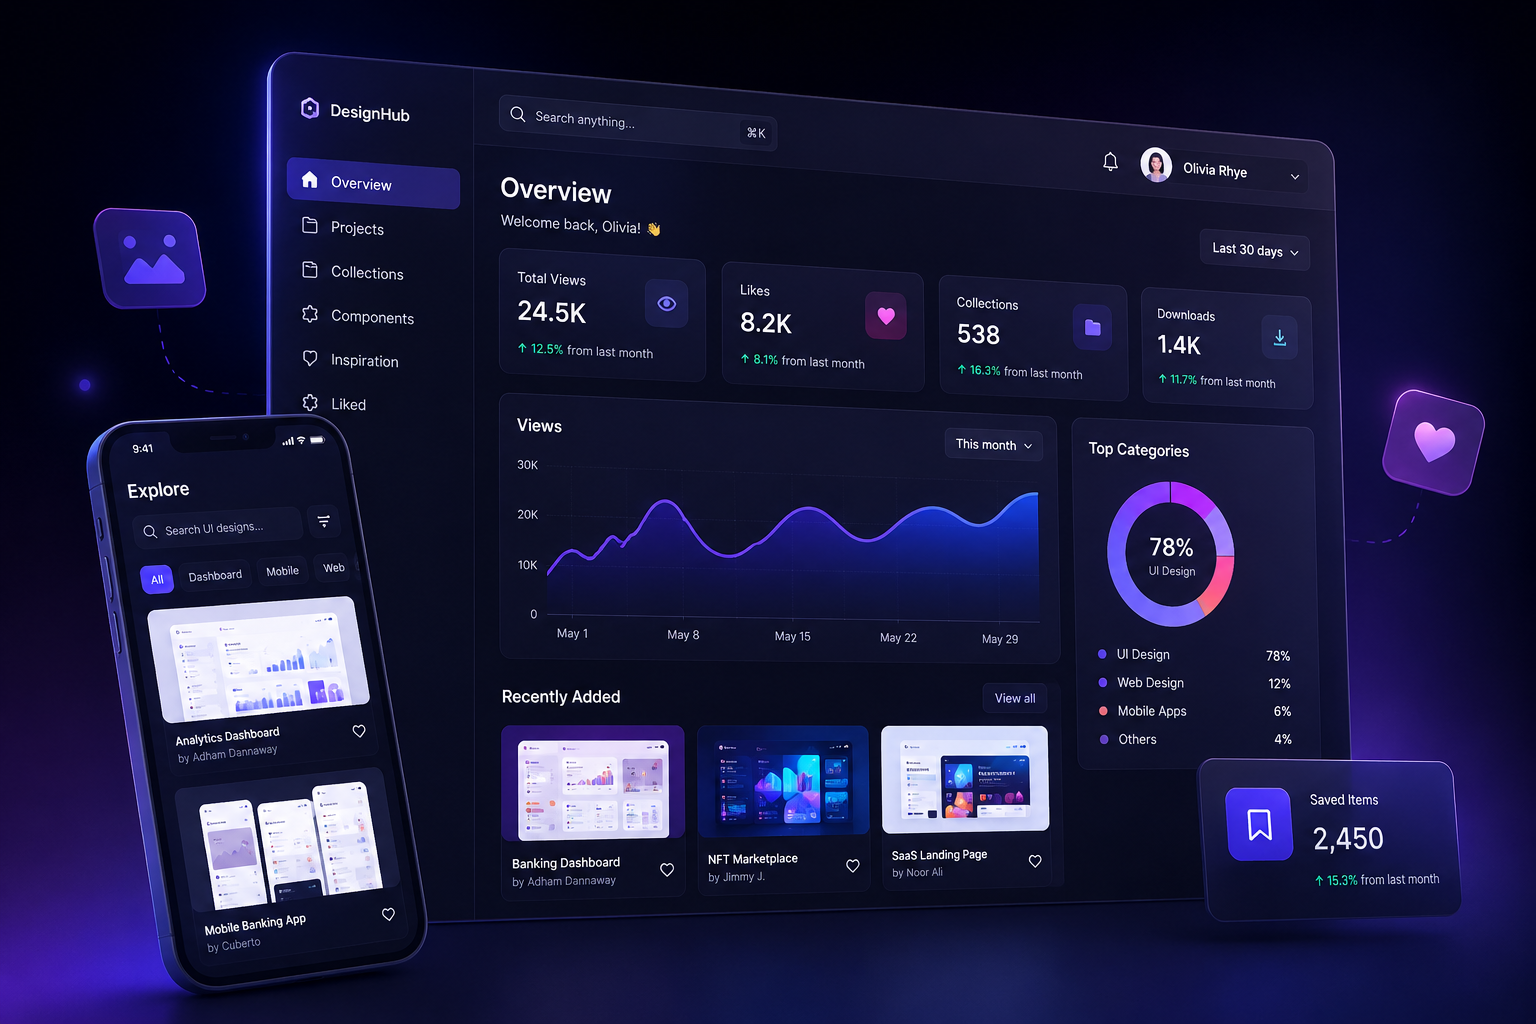
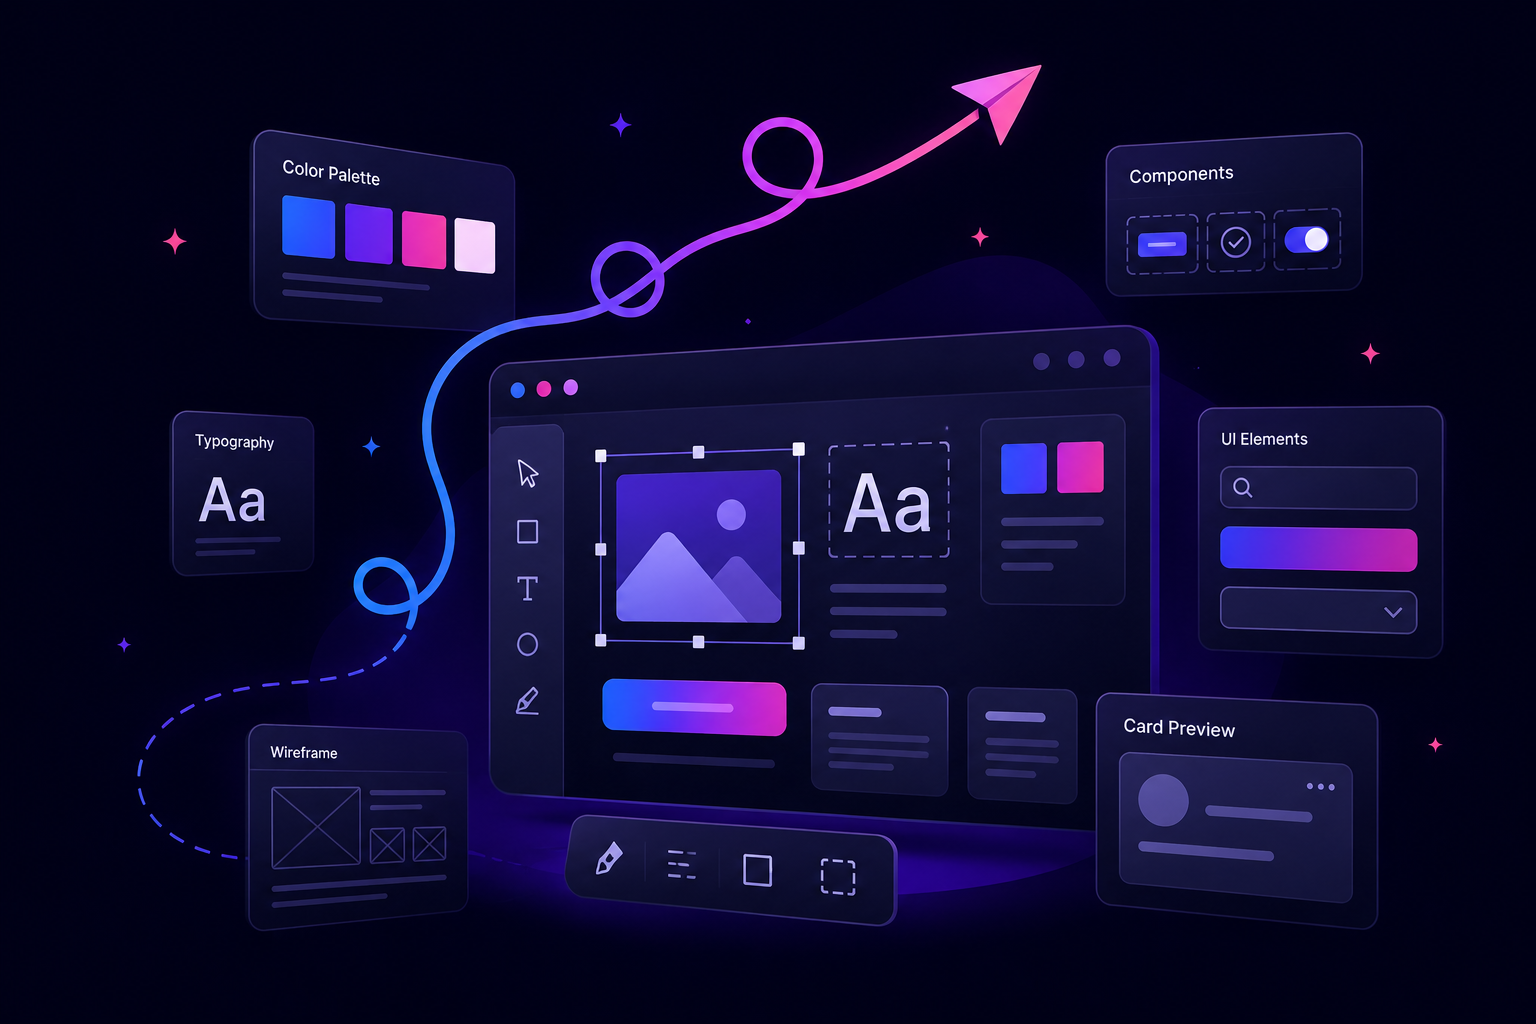
feat: add UI category cards

diff --git a/index.html b/index.html
@@ -1,5 +1,5 @@
 <!doctype html>
-<html lang="en">
+<html class="scroll-smooth">
 
 <head>
   <meta charset="UTF-8" />
@@ -7,9 +7,10 @@
   <title>DesignHub</title>
   <link rel="shortcut icon" href="src/assets/logo.svg" type="image/x-icon" />
   <link rel="stylesheet" href="src/output.css" />
+  <link rel="stylesheet" href="https://cdnjs.cloudflare.com/ajax/libs/font-awesome/6.5.0/css/all.min.css" />
 </head>
 
-<body class="min-h-screen bg-[#050816] text-slate-100 antialiased relative overflow-x-hidden">
+<body class="min-h-screen bg-[#050816] text-slate-100 antialiased relative overflow-x-hidden scroll-smooth">
 
   <!-- Background Effects -->
   <div class="absolute inset-0 -z-10 overflow-hidden pointer-events-none">
@@ -38,7 +39,7 @@
     <div class="absolute top-0 left-1/2 -translate-x-1/2
       w-[70vw] max-w-[600px]
       h-[2px]
-      bg-gradient-to-r
+      bg-linear-to-r
       from-transparent
       via-purple-400/40
       to-transparent">
@@ -47,15 +48,14 @@
   </div>
 
   <!-- Header -->
-  <header class="sticky top-0 z-50 bg-white/[0.03] backdrop-blur-2xl border-b border-white/10 rounded-2xl">
+  <header class="sticky top-0 z-50 bg-white/[0.03] backdrop-blur-2xl border-b border-white/10 rounded-b-2xl">
 
     <div class="mx-auto max-w-7xl px-4 py-4 flex items-center justify-between">
 
       <!-- Logo -->
-      <div class="flex items-center gap-3">
-        <img src="src/assets/logo.svg" alt="DesignHub Logo" class="w-9 h-9 md:w-10 md:h-10">
-
-        <span class="text-white text-xl md:text-3xl font-semibold tracking-wide">
+      <div class="flex items-center gap-3 ">
+        <img src="src/assets/logo.svg" alt="DesignHub Logo" class="w-8 h-8 md:w-10 md:h-10">
+        <span class="text-white text-2  xl md:text-3xl font-bold tracking-wide">
           Design<span class="text-pink-500">Hub</span>
         </span>
       </div>
@@ -65,77 +65,66 @@
         <nav class="hidden md:flex items-center gap-10 text-sm font-medium">
           <a href="#" class="relative text-white/70 hover:text-white transition-all duration-300 group">
             <span class="text-[20px] font-semibold tracking-wide">Home</span>
-
-            <!-- underline animation -->
-            <span class="absolute left-0 -bottom-1 w-0 h-[2px] bg-pink-500 
-                 group-hover:w-full transition-all duration-300"></span>
+            <span
+              class="absolute left-0 -bottom-1 w-0 h-[2px] bg-pink-500 group-hover:w-full transition-all duration-300"></span>
           </a>
 
           <a href="#" class="relative text-white/70 hover:text-white transition-all duration-300 group">
             <span class="text-[20px] font-semibold tracking-wide">About</span>
-
-            <span class="absolute left-0 -bottom-1 w-0 h-[2px] bg-purple-500 
-                 group-hover:w-full transition-all duration-300"></span>
-          </a>
-
-          <a href="#" class="relative text-white/70 hover:text-white transition-all duration-300 group">
-            <span class="text-[20px] font-semibold tracking-wide">Contact</span>
-
-            <span class="absolute left-0 -bottom-1 w-0 h-[2px] bg-indigo-500 
-                 group-hover:w-full transition-all duration-300"></span>
+            <span
+              class="absolute left-0 -bottom-1 w-0 h-[2px] bg-purple-500 group-hover:w-full transition-all duration-300"></span>
           </a>
         </nav>
-
-
+        <button onclick="document.getElementById('uiCategoryCards').scrollIntoView({ behavior: 'smooth' })"
+          class="relative px-6 py-2 font-medium text-white rounded-full bg-gradient-to-r from-indigo-500 via-purple-500
+          to-pink-500 hover:scale-105 transition-all duration-300 shadow-lg shadow-purple-500/30 overflow-hidden group">
+          <span class="relative z-10">Get Started</span>
+          <!-- glow effect -->
+          <span class="absolute inset-0 bg-white/10 opacity-0 group-hover:opacity-100 transition duration-300"></span>
+        </button>
       </nav>
 
       <!-- Mobile Button -->
       <button id="menuBtn" class="md:hidden text-white text-2xl">
         ☰
       </button>
-
     </div>
 
     <!-- Mobile Menu -->
     <div id="mobileMenu" class="hidden md:hidden px-4 pb-4">
       <div class="flex flex-col gap-3">
-
         <a href="#"
           class="flex justify-center items-center py-3 rounded-xl bg-white/5 border border-white/10 text-white/80 hover:bg-white/10">
           Home
         </a>
-
         <a href="#"
           class="flex justify-center items-center py-3 rounded-xl bg-white/5 border border-white/10 text-white/80 hover:bg-white/10">
           About
         </a>
-
-        <a href="#"
-          class="flex justify-center items-center py-3 rounded-xl bg-white/5 border border-white/10 text-white/80 hover:bg-white/10">
-          Contact
-        </a>
-
-        <button class="w-full py-3 rounded-xl bg-gradient-to-r from-pink-500 to-purple-600 text-white font-medium">
+        <button class="w-full py-3 rounded-xl bg-linear-to-r from-pink-500 to-purple-600 text-white font-medium">
           Get Started
         </button>
-
       </div>
     </div>
-
   </header>
 
   <!-- main body section  -->
-  <main>
-    <!-- landing page section  -->
+  <main class="scroll-smooth">
+
+    <!-- landing page section -->
     <section id="landingPage"
-      class="relative min-h-[85vh] lg:min-h-[90vh] flex items-center px-4 sm:px-6 lg:px-12 animate-fade-up">
-      <div class="max-w-7xl mx-auto w-full grid grid-cols-1 lg:grid-cols-2 gap-12 lg:gap-8 items-center">
+      class="relative min-h-[85vh] lg:min-h-[70vh] flex items-center px-4 sm:px-6 lg:px-12 animate-fade-up">
+
+      <div class="max-w-7xl mx-auto w-full grid grid-cols-1 lg:grid-cols-2 gap-12 items-center">
 
         <!-- Left Content -->
         <div class="text-center lg:text-left order-1">
-          <div
-            class="inline-flex items-center gap-2 px-5 py-2.5 rounded-full border border-white/10 bg-gradient-to-r from-blue-500/10 via-violet-500/10 to-pink-500/10backdrop-blur-xl">
-            <span class="w-2 h-2 rounded-full bg-pink-400 animate-pulse"></span>
+
+          <div class="inline-flex items-center gap-2 px-5 py-2.5 rounded-full border border-white/10 
+          bg-linear-to-r from-blue-500/10 via-violet-500/10 to-pink-500/10 backdrop-blur-xl">
+
+            <span class="w-2 h-2 rounded-full bg-pink-400 animate-ping"></span>
+
             <span class="text-sm text-white/80 font-medium">
               UI Inspiration Platform
             </span>
@@ -143,45 +132,55 @@
 
           <h1 class="mt-6 text-4xl sm:text-5xl md:text-6xl lg:text-7xl font-bold leading-[1.1] tracking-tight">
             Beautiful
-            <span class="bg-gradient-to-r from-blue-400 via-violet-400 to-pink-400 bg-clip-text text-transparent">
+            <span class="bg-linear-to-r from-blue-400 via-violet-400 to-pink-400 bg-clip-text text-transparent">
               Interfaces,
             </span>
             Endless Inspiration
           </h1>
 
           <p class="mt-6 max-w-xl mx-auto lg:mx-0 text-base md:text-lg text-white/60 leading-relaxed">
-            Explore modern interfaces, elegant layouts and inspiring
-            design patterns built for the next generation of web experiences.
+            Explore modern interfaces, elegant layouts and inspiring design patterns built for the next generation of
+            web experiences.
           </p>
-
         </div>
 
         <!-- Right Side -->
         <div class="relative flex justify-center order-2">
 
           <!-- Glow -->
-          <div
-            class="absolute w-[280px] h-[280px] sm:w-[380px] sm:h-[380px] md:w-[500px] md:h-[500px] bg-gradient-to-r from-blue-500/20 via-violet-500/20 to-pink-500/20 rounded-full blur-[100px]">
+          <div class="absolute w-[280px] h-[280px] sm:w-[380px] sm:h-[380px] md:w-[500px] md:h-[500px] 
+          bg-linear-to-r from-blue-500/20 via-violet-500/20 to-pink-500/20 rounded-full blur-[100px]">
           </div>
 
-          <!-- Image Wrapper Container -->
           <div class="relative group mt-12 flex justify-center items-center">
-            <div
-              class="absolute w-[80%] h-[80%] rounded-full bg-purple-600/20 blur-[100px] pointer-events-none -z-10 transition-all duration-700 group-hover:bg-purple-500/30">
+
+            <div class="absolute inset-0 max-w-[280px] sm:max-w-[380px] md:max-w-[500px] lg:max-w-[600px] xl:max-w-[700px]
+            mx-auto rounded-2xl shadow-[0_0_50px_0_rgba(0,0,0,0.8)] -z-10">
             </div>
-            <div
-              class="absolute bottom-4 left-1/4 w-[40%] h-[40%] rounded-full bg-cyan-500/20 blur-[80px] pointer-events-none -z-10">
-            </div>
-            <div
-              class="absolute top-12 left-12 w-[30%] h-[30%] rounded-full bg-pink-500/15 blur-[70px] pointer-events-none -z-10">
-            </div>
-            <div
-              class="absolute inset-0 max-w-[280px] sm:max-w-[380px] md:max-w-[500px] lg:max-w-[600px] xl:max-w-[700px] mx-auto rounded-2xl shadow-[0_0_50px_0_rgba(0,0,0,0.8)] pointer-events-none -z-10">
-            </div>
-            <img src="src/assets/herosection.png" alt="UI Design Preview"
-              class="relative w-full max-w-[280px] sm:max-w-[380px] md:max-w-[500px] lg:max-w-[600px] xl:max-w-[700px] opacity-95 mix-blend-plus-lighter transition-all duration-500 group-hover:scale-[1.01] group-hover:opacity-100 [mask-image:radial-gradient(circle_at_center,black_55%,transparent_100%)] [-webkit-mask-image:radial-gradient(circle_at_center,black_55%,transparent_100%)]">
+
+            <img src="src/assets/herosection.png" alt="UI Design Preview" class="relative w-full max-w-[280px] sm:max-w-[380px] md:max-w-[500px] lg:max-w-[600px] xl:max-w-[700px]
+            opacity-95 mix-blend-plus-lighter transition-all duration-500
+            group-hover:scale-[1.01] group-hover:opacity-100
+            [mask-image:radial-gradient(circle_at_center,black_55%,transparent_100%)]
+            [-webkit-mask-image:radial-gradient(circle_at_center,black_55%,transparent_100%)]">
+
           </div>
         </div>
+
+      </div>
+    </section>
+
+    <!-- UI Collections -->
+    <section id="uiCategoryCards" class="scroll-mt-24">
+      <div class="max-w-7xl mx-auto min-h-150">
+        <!-- GRID -->
+        <div id="uiCategoryCardContainer" class="grid grid-cols-1 sm:grid-cols-2 lg:grid-cols-4 gap-6 p-8">
+        </div>
+      </div>
+    </section>
+
+    <section id="uiPageContainer">
+
     </section>
   </main>
   <footer></footer>

diff --git a/src/scripts/renderCategoryCard.js b/src/scripts/renderCategoryCard.js
@@ -1,0 +1,109 @@
+export async function renderCategoryCard() {
+  const uiCategoryCardContainer = document.getElementById(
+    'uiCategoryCardContainer'
+  );
+  uiCategoryCardContainer.innerHTML = '';
+
+  // create card data
+  const cardData = [
+    {
+      icon: `<i class="fa-solid fa-lock text-lg"></i>`,
+      name: 'Login Page',
+      desc: 'Beautiful login screens for modern apps.',
+      id: 'loginCard',
+    },
+    {
+      icon: `<i class="fa-solid fa-user-plus text-lg"></i>`,
+      name: 'Sign Up Page',
+      desc: 'Modern registration UI with smooth UX.',
+      id: 'signupCard',
+    },
+    {
+      icon: `<i class="fa-solid fa-gauge-high text-lg"></i>`,
+      name: 'Dashboard',
+      desc: 'Analytics dashboards with clean data UI.',
+      id: 'dashboardCard',
+    },
+    {
+      icon: `<i class="fa-solid fa-house text-lg"></i>`,
+      name: 'Landing Page',
+      desc: 'High-converting hero sections and layouts.',
+      id: 'landingCard',
+    },
+    {
+      icon: `<i class="fa-solid fa-list-check text-lg"></i>`,
+      name: 'Forms UI',
+      desc: 'Smart input forms with validation design.',
+      id: 'formCard',
+    },
+    {
+      icon: `<i class="fa-solid fa-square-plus text-lg"></i>`,
+      name: 'UI Cards',
+      desc: 'Modern reusable card components.',
+      id: 'uiCard',
+    },
+    {
+      icon: `<i class="fa-solid fa-tags text-lg"></i>`,
+      name: 'Pricing Page',
+      desc: 'Pricing tables with comparison layouts.',
+      id: 'pricingCard',
+    },
+    {
+      icon: `<i class="fa-solid fa-chart-line text-lg"></i>`,
+      name: 'Analytics UI',
+      desc: 'Charts and insights dashboards.',
+      id: 'analyticsCard',
+    },
+    {
+      icon: `<i class="fa-solid fa-bars-progress text-lg"></i>`,
+      name: 'Task Manager UI',
+      desc: 'Todo and project management interfaces.',
+      id: 'taskCard',
+    },
+    {
+      icon: `<i class="fa-solid fa-palette text-lg"></i>`,
+      name: 'Design System',
+      desc: 'Components, colors, and UI guidelines.',
+      id: 'designSystemCard',
+    },
+  ];
+
+  // pass card data
+  for (const element of cardData) {
+    await sleep(300);
+    createCard(element);
+  }
+}
+
+// create card
+function createCard(element) {
+  const card = document.createElement('div');
+  card.className =
+    'bg-[#0b0b1e]/80 border border-purple-900/40 rounded-2xl p-6 flex flex-col justify-between backdrop-blur-sm shadow-xl hover:border-purple-500/30 transition-all duration-300';
+
+  card.innerHTML = ` 
+                <div class="flex flex-col gap-4">
+                    <!-- icon -->
+                    <div class="w-10 h-10 rounded-xl bg-linear-to-br from-pink-500/20 to-purple-500/20 border border-pink-500/30 flex items-center justify-center text-pink-400">
+                        ${element.icon}
+                    </div>
+                    <div>
+                        <h3 class="text-xl font-bold text-white mb-2">${element.name}</h3>
+                        <p class="text-gray-400 text-sm leading-relaxed">${element.desc}</p>
+                    </div>
+                </div>
+
+                 <div id=${element.id} class="explore-btn mt-6 inline-flex items-center text-indigo-400 text-sm font-semibold hover:text-indigo-300 group">
+                    Explore 
+                    <svg class="w-4 h-4 ml-1 group-hover:translate-x-1 transition-transform" xmlns="http://www.w3.org/2000/svg" fill="none" viewBox="0 0 24 24" stroke="currentColor">
+                        <path stroke-linecap="round" stroke-linejoin="round" d="M13.5 4.5L21 12l-7.5 7.5" />
+                    </svg>
+                </div>`;
+
+  uiCategoryCardContainer.appendChild(card);
+}
+
+// Sleep helper
+export function sleep(ms) {
+  return new Promise((resolve) => setTimeout(resolve, ms));
+}

diff --git a/src/scripts/main.js b/src/scripts/main.js
@@ -1,6 +1,15 @@
+import { renderCategoryCard } from './renderCategoryCard.js';
+
+document.addEventListener('DOMContentLoaded', () => {
+  renderCategoryCard();
+});
+
+// handle nav bar (hambarger)
 const menuBtn = document.getElementById('menuBtn');
 const mobileMenu = document.getElementById('mobileMenu');
 
 menuBtn.addEventListener('click', () => {
   mobileMenu.classList.toggle('hidden');
 });
+
+document.addEventListener('click', () => {});
